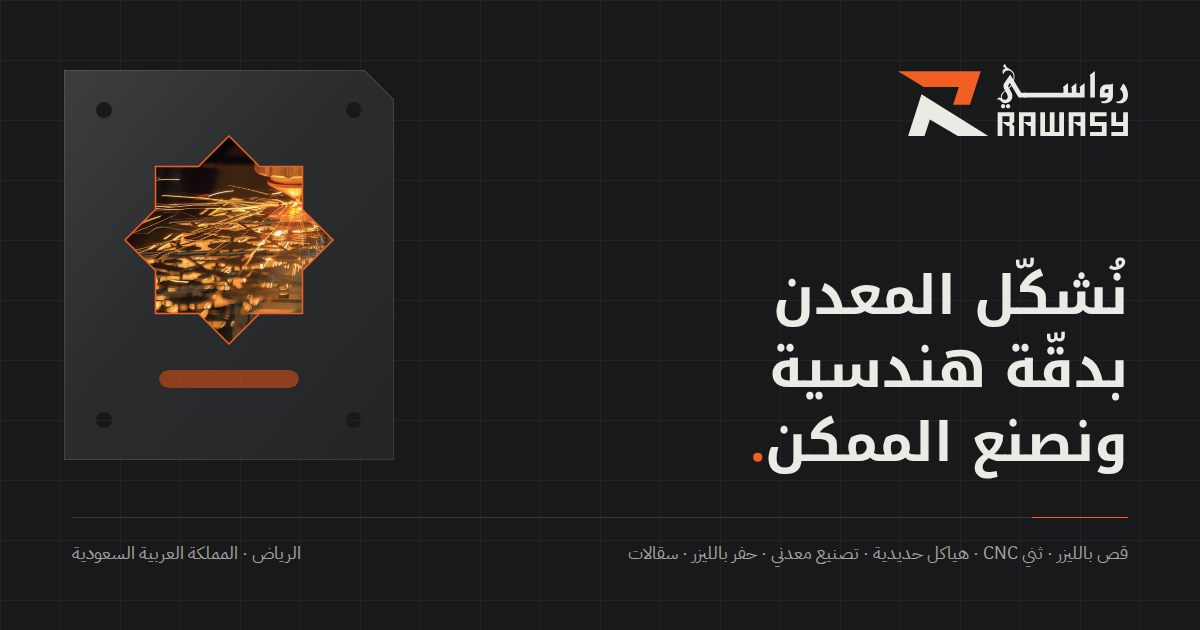
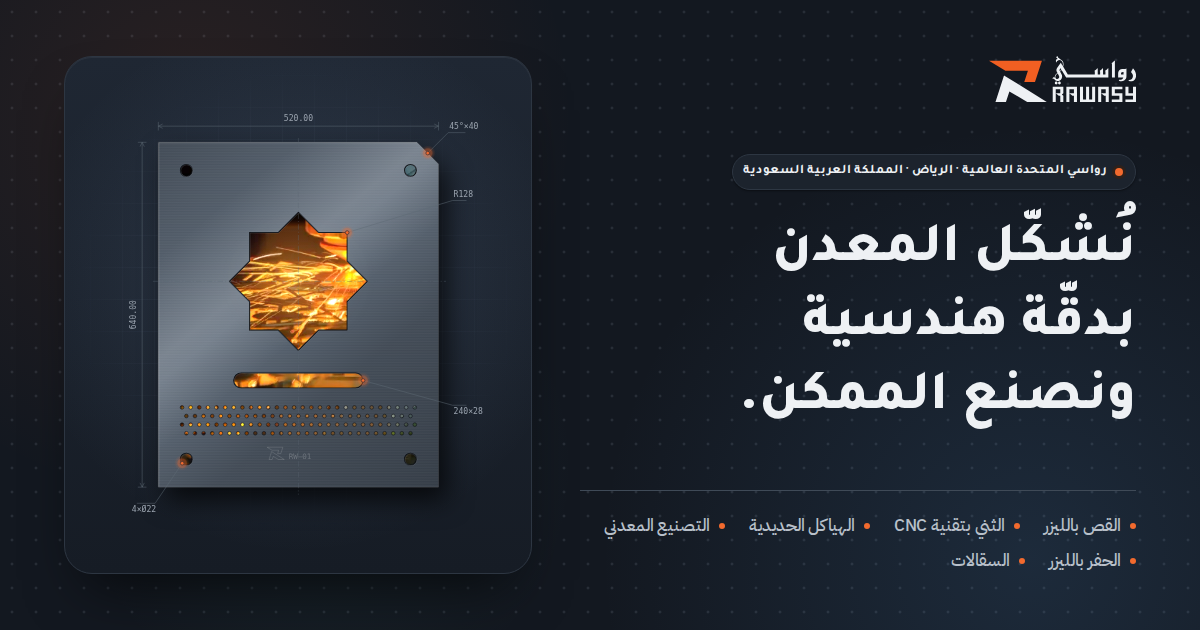
Regenerate the share images in the Modern Commerce design (Stage 1J)
scripts/generate-og.mjs is rewritten. It no longer fetches the previous
design's faces from Google Fonts or draws its grid: each 1200 x 630 card is
drawn inside the website's own built homepage (script off, reduced motion,
dark theme), so it uses the site's stylesheet and tokens, its self-hosted faces
(Plus Jakarta Sans and Inter; Tajawal and IBM Plex Sans Arabic), the header's
logo and the hero's finished plate. The words are the content layer's: the
hero's eyebrow and location, its three-line headline and the six service
names (read from src/content with Node's type stripping). Before writing a
card the script checks that every text is drawn in the site's faces at the
weight shown, stays 48 px inside the edges and inside its column, that the
page is right-to-left in Arabic, that the plate's photograph loaded and that
no request left the site. Two runs give byte-identical files.

public/og/og-en.png and og-ar.png are regenerated (paths unchanged, so the
metadata is too). The Apple touch icon is only rendered with --icon and is
unchanged. README: how to run it.

Claude-Session: https://claude.ai/code/session_012P1gozzqa5jGrhpTM1yr4e

diff --git a/README.md b/README.md
@@ -76,7 +76,7 @@ src/
 e2e/                       Playwright browser tests (pages, site-wide checks)
 scripts/
   extract-profile-assets.py  Pulls photos/logos/certificates out of the company profile PDF
-  generate-og.mjs            Renders the EN/AR Open Graph images and Apple touch icon
+  generate-og.mjs            Renders the EN/AR Open Graph images from the built homepage (and the Apple touch icon)
 docs/ASSET_INVENTORY.md      Asset sources, redactions and items awaiting confirmation
 docs/reports/                Stage reports (latest: 2026-10-08, Stage 1I correction 3)
 ```
@@ -192,8 +192,13 @@ low-resolution export, so photos are shown close to their native size. Replace t
 photography (same file names) before launch. See **[docs/ASSET_INVENTORY.md](docs/ASSET_INVENTORY.md)**
 for provenance, certificate redactions and the list of facts and images RAWASY needs to confirm.
 
-`npm run assets:og` regenerates the share images. It needs Playwright/Chromium; behind an HTTPS
-proxy, prefix it with `NODE_USE_ENV_PROXY=1`.
+`npm run assets:og` regenerates the share images (`public/og/og-en.png`, `og-ar.png`, 1200 × 630) in the Modern Commerce
+design. It draws each card inside the website's own homepage, so it needs the production build being served (`npm run
+build && npm start`, or pass another address: `node scripts/generate-og.mjs http://localhost:3400`), Playwright's
+Chromium and Node.js 22.18 or later (it reads the content modules with Node's TypeScript support). The cards use the
+site's stylesheet, self-hosted faces, logo and hero plate, and the hero's own words; the script checks the faces, the
+safe area, the direction and that no request leaves the site before it writes a file. `--out=<folder>` writes the cards
+elsewhere for review; `--icon` also renders `src/app/apple-icon.png` from `src/app/icon.svg`.
 
 ## Testing
 
